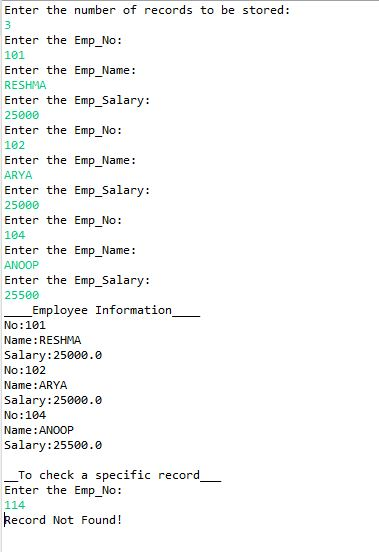
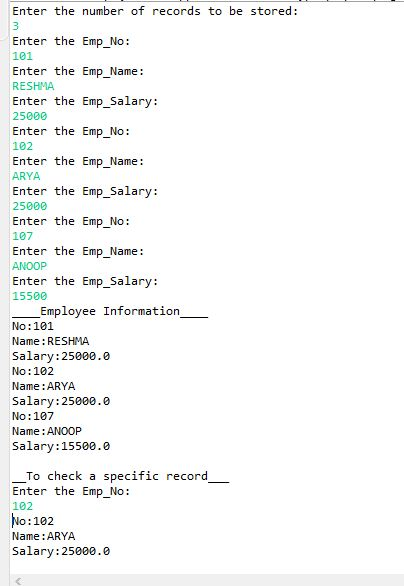
Commit 06-05-2021

Changed region(s): [[0.0, 0.0, 1.0, 0.9547], [0.0, 0.9855, 0.058, 1.0]]

diff --git a/CO2-4/employee.java b/CO2-4/employee.java
@@ -40,15 +40,15 @@ public class Employee{
 	    	for(i=0;i<count;i++)
 	    	{
 	    		if(eNo[i]==e)
-	    		{
+	    		{   
 	    	    	System.out.println("No:"+eNo[i]);
 	    	        System.out.println("Name:"+eName[i]);
 	    	        System.out.println("Salary:"+eSalary[i]);
+	    	        flag++;
 	    		}
-	    		else
-	    			 flag=1;		
+	    				
 	    	} 
-	    	if(flag==1)
+	    	if(flag==0)
 	    		System.out.println("Record Not Found!");
 	   }
 	               
